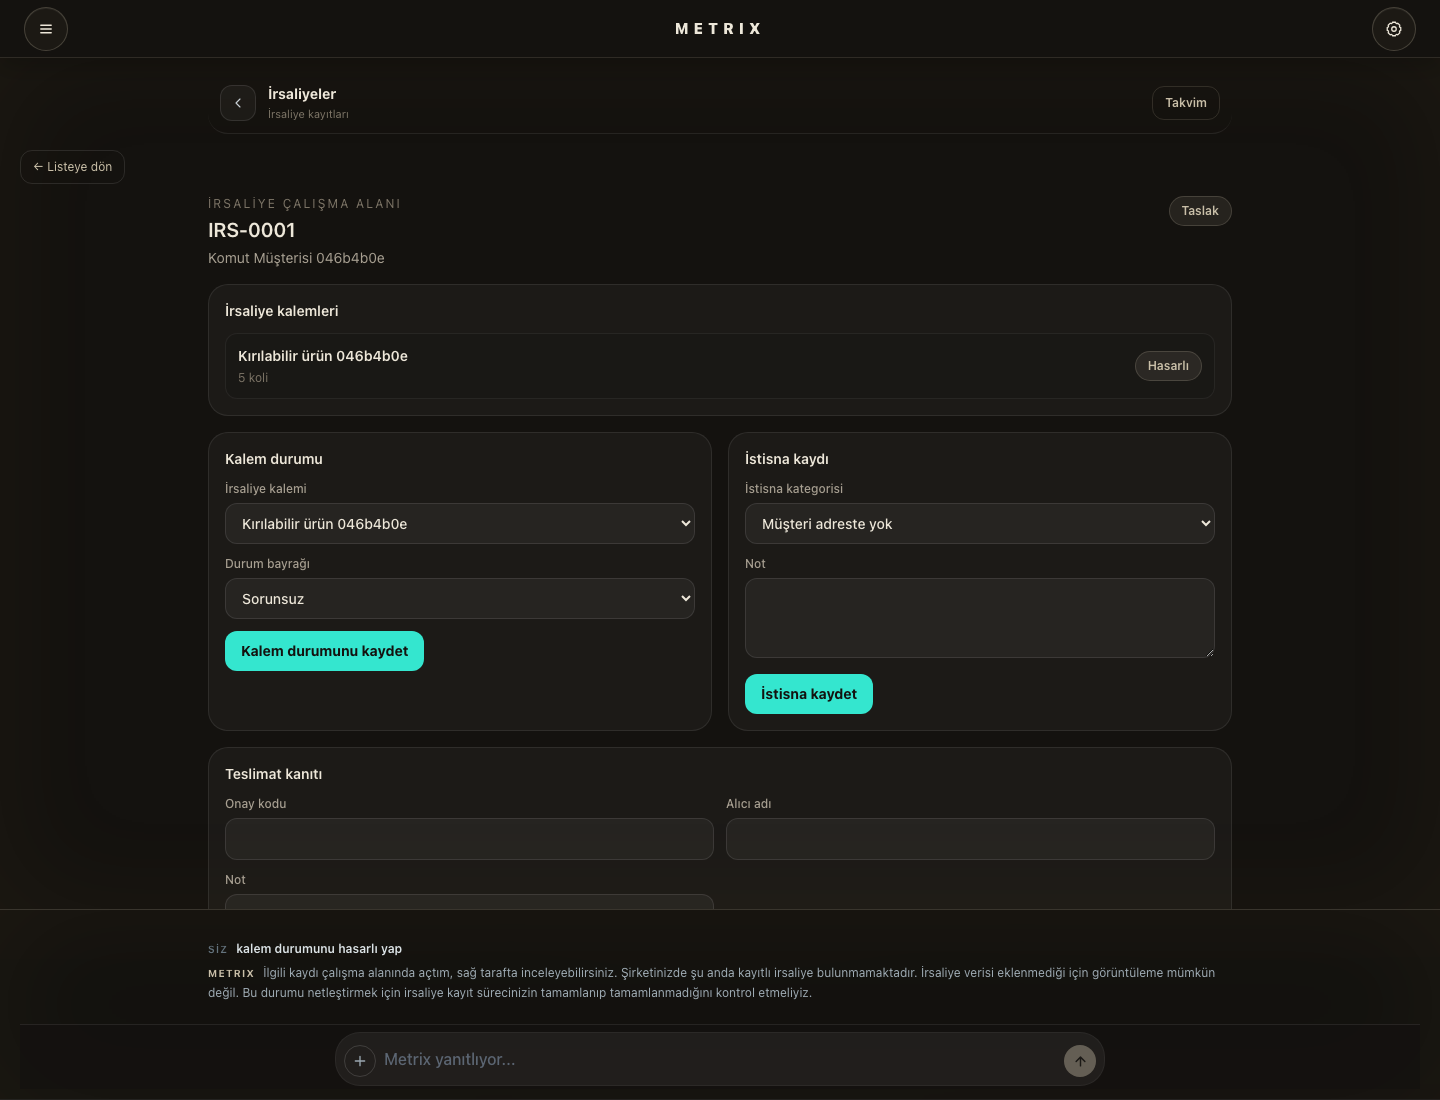
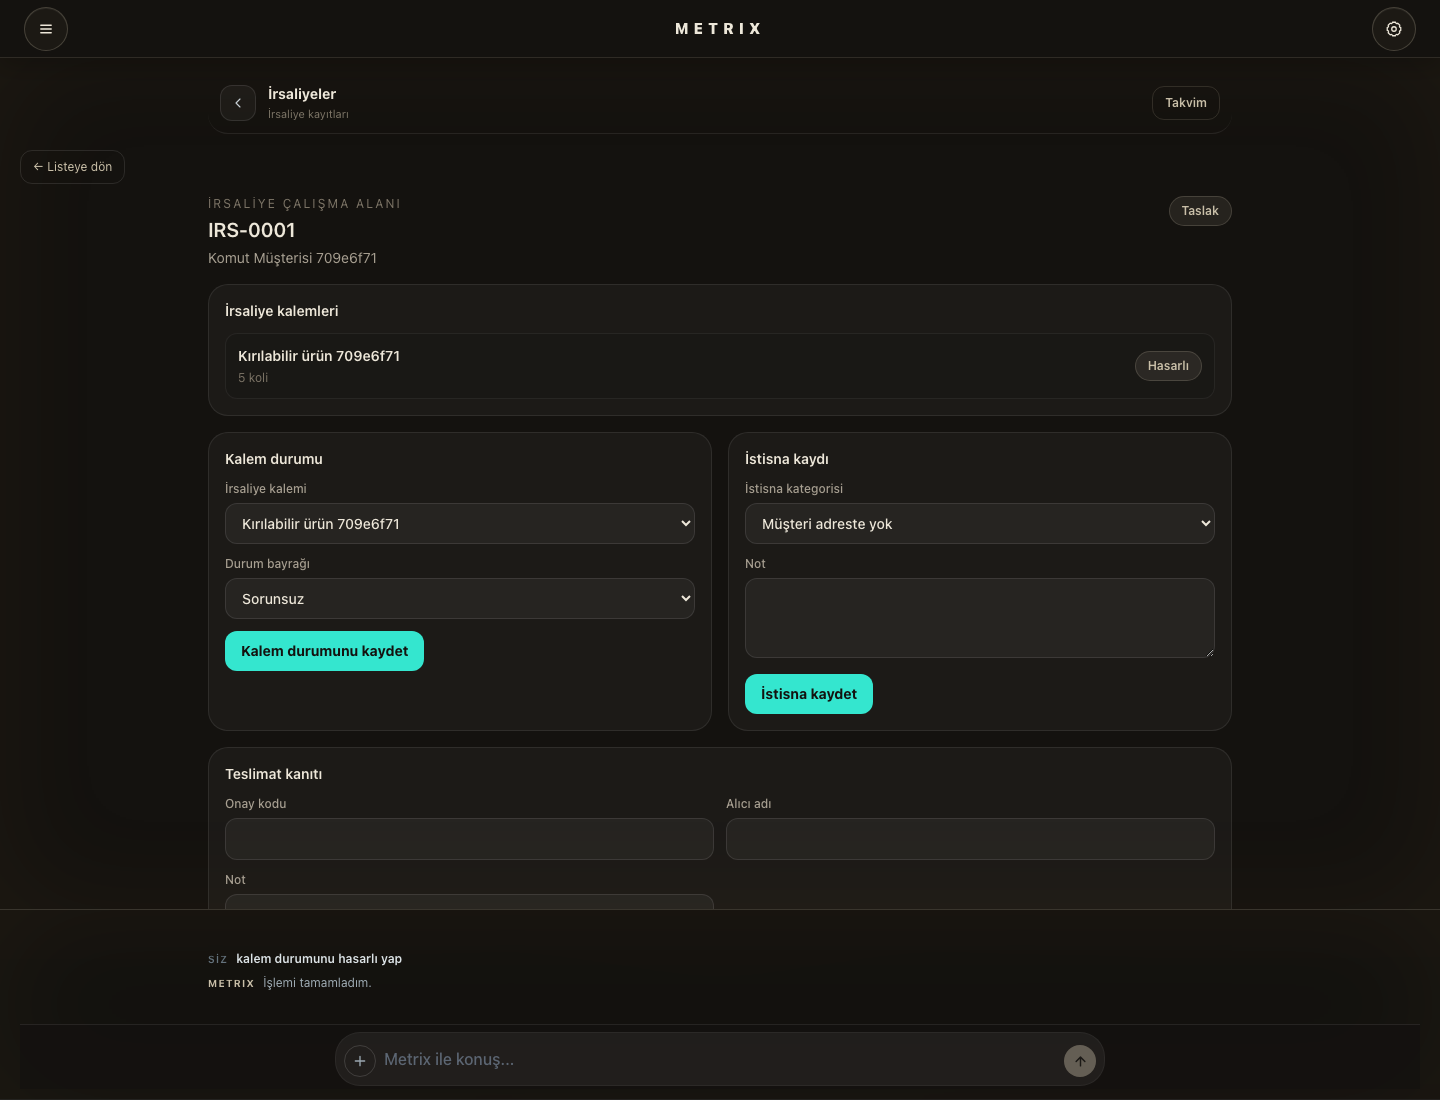
fix(conversation-extensions): confirm mutations before navigation, never append ungrounded enrichment after a confirmed mutation
Root cause 1 (confirmed): buildUniversalHandoffMessage checked navigationRequested before mutationPerformed, so any domain that both mutates and opens the record in the same turn (order/delivery/offer/stock/payment/invoice/team) silently lost its mutation confirmation to a generic 'I opened it' message.
Fix: mutationPerformed is now checked first; a combined mutation+navigation handoff now says 'İşlemi tamamladım ve ilgili kaydı çalışma alanında açtım.'

Root cause 2 (strong hypothesis, addressed conservatively): the second, independent 'progressive enrichment' LLM call gathers its own executive-evidence context and never sees the turn's real mutation handoff — in a sparse/fresh organization this produced a hallucinated claim (e.g. 'no delivery records exist') appended after an already-correct, deterministic mutation confirmation.
Fix: new shouldAppendProgressiveEnrichment() skips appending that second call's output whenever the turn already has an EXECUTED handoff with mutationPerformed — the deterministic confirmation stays final. The underlying LLM call still runs (already kicked off in parallel for latency), only its result is no longer trusted/appended on mutation-confirming turns.

New regression tests cover both branches. Delivery's voice-command e2e test now asserts the exact 'İşlemi tamamladım.' response text, not just DOM/DB state.

diff --git a/src/lib/conversation-extensions/__tests__/conversation-extension-handoff-message.test.ts b/src/lib/conversation-extensions/__tests__/conversation-extension-handoff-message.test.ts
@@ -1,5 +1,29 @@
 import { describe, expect, it } from "vitest";
-import { buildUnconfirmedMutationIntentMessage } from "../conversation-extension-handoff-message";
+import { buildUniversalHandoffMessage, buildUnconfirmedMutationIntentMessage, shouldAppendProgressiveEnrichment } from "../conversation-extension-handoff-message";
+import { deliveryHandoff } from "../conversation-extension-handoff";
+
+describe("confirmed mutation response authority", () => {
+  const mutationAndNavigation = deliveryHandoff({
+    operation: "UPDATE",
+    outcomeCode: "DELIVERY_EDIT_EXECUTED",
+    resultStatus: "EXECUTED",
+    mutationPerformed: true,
+    navigationRequested: true,
+    navigationStatus: "COMPLETED",
+  });
+
+  it("confirms the mutation before mentioning completed navigation", () => {
+    const message = buildUniversalHandoffMessage(mutationAndNavigation);
+    expect(message).toBe("İşlemi tamamladım ve ilgili kaydı çalışma alanında açtım.");
+    expect(message).not.toBe("İlgili kaydı çalışma alanında açtım, sağ tarafta inceleyebilirsiniz.");
+  });
+
+  it("prevents independently generated enrichment from following a confirmed mutation", () => {
+    expect(shouldAppendProgressiveEnrichment(mutationAndNavigation)).toBe(false);
+    expect(shouldAppendProgressiveEnrichment(deliveryHandoff({ operation: "QUERY", outcomeCode: "DELIVERY_LISTED", resultStatus: "OBSERVED" }))).toBe(true);
+    expect(shouldAppendProgressiveEnrichment(null)).toBe(true);
+  });
+});
 
 // Living Workspace Determinism Operation — Gap 2: no conversation extension
 // claimed this turn (no handoff at all), yet the turn still looks

diff --git a/src/app/api/ai/chat/route.ts b/src/app/api/ai/chat/route.ts
@@ -145,7 +145,7 @@ import {
 } from "@/lib/business-reality-candidates";
 import { validateConversationExtensionHandoff, type ConversationExtensionHandoff } from "@/lib/conversation-extensions/conversation-extension-handoff";
 import { validateActiveWorkspaceContext } from "@/lib/living-workspace/contracts";
-import { buildUniversalHandoffMessage, buildUnconfirmedMutationIntentMessage } from "@/lib/conversation-extensions/conversation-extension-handoff-message";
+import { buildUniversalHandoffMessage, buildUnconfirmedMutationIntentMessage, shouldAppendProgressiveEnrichment } from "@/lib/conversation-extensions/conversation-extension-handoff-message";
 import { CUSTOMER_BUILT_IN_FIELDS } from "@/lib/customers/customer-field-registry";
 import { emitCustomerLifecycle } from "@/lib/conversation-extensions/conversation-lifecycle-telemetry";
 import { businessNavigationRouteType, emitBusinessNavigationTelemetry } from "@/lib/conversation-extensions/business-navigation-telemetry";
@@ -1206,7 +1206,7 @@ export async function POST(request: Request): Promise<Response> {
             aiContent = deterministicUnconfirmedMutationMessage;
           }
           const progressiveIntelligence = await progressiveIntelligencePromise;
-          if (progressiveIntelligence) {
+          if (progressiveIntelligence && shouldAppendProgressiveEnrichment(conversationExtensionHandoff)) {
             cognitionObservation = progressiveIntelligence.cognitionObservation;
             const enrichmentEvidence = buildProgressiveEnrichmentEvidence(progressiveIntelligence);
             if (enrichmentEvidence) {

diff --git a/src/lib/conversation-extensions/conversation-extension-handoff-message.ts b/src/lib/conversation-extensions/conversation-extension-handoff-message.ts
@@ -27,6 +27,11 @@ export function buildUniversalHandoffMessage(handoff: ConversationExtensionHando
     return "Devam edebilmem için biraz daha bilgi verir misiniz?";
   }
   if (handoff.resultStatus === "EXECUTED") {
+    if (handoff.mutationPerformed) {
+      return handoff.navigationRequested && handoff.navigationStatus === "COMPLETED"
+        ? "İşlemi tamamladım ve ilgili kaydı çalışma alanında açtım."
+        : "İşlemi tamamladım.";
+    }
     if (handoff.navigationRequested && handoff.navigationStatus === "COMPLETED") {
       return "İlgili kaydı çalışma alanında açtım, sağ tarafta inceleyebilirsiniz.";
     }
@@ -36,6 +41,14 @@ export function buildUniversalHandoffMessage(handoff: ConversationExtensionHando
     return `Kanonik kayıtlara göre: ${joinNames(handoff.candidateNames)}.`;
   }
   return null;
+}
+
+// A completed mutation handoff is the authoritative result of this turn.
+// Progressive enrichment is generated from independently assembled executive
+// evidence and does not carry that handoff, so appending it could contradict
+// the confirmed mutation. Keep the deterministic confirmation final.
+export function shouldAppendProgressiveEnrichment(handoff: ConversationExtensionHandoff | null): boolean {
+  return !(handoff?.resultStatus === "EXECUTED" && handoff.mutationPerformed);
 }
 
 function joinNames(names: readonly string[]): string {

diff --git a/e2e/irsaliye-sesli-komut.acceptance.e2e.ts b/e2e/irsaliye-sesli-komut.acceptance.e2e.ts
@@ -23,6 +23,7 @@ test("açık irsaliye yüzeyi sohbet komutuyla kalem durumunu değiştirir", asy
     const surface = page.locator(`[data-delivery-action-surface="${delivery!.id}"]`); await expect(surface).toBeVisible({ timeout: 20_000 });
     await composer.fill("kalem durumunu hasarlı yap"); await page.getByRole("button", { name: "Gönder" }).click();
     await expect(surface.getByText("Hasarlı").first()).toBeVisible({ timeout: 20_000 });
+    await expect(page.getByText("İşlemi tamamladım.", { exact: true })).toBeVisible({ timeout: 20_000 });
     await surface.getByText("İrsaliye kalemleri", { exact: true }).scrollIntoViewIfNeeded(); await page.screenshot({ path: "qa-screenshots/irsaliye-sesli-komut-kalem-hasarli.png", fullPage: false });
     const stored = await prisma.deliveryItem.findUnique({ where: { id: deliveryItemId } }); expect(stored?.conditionFlag).toBe("DAMAGED");
   } finally { await prisma.organization.delete({ where: { id: organization.id } }).catch(() => undefined); await prisma.user.delete({ where: { id: user.id } }).catch(() => undefined); }
